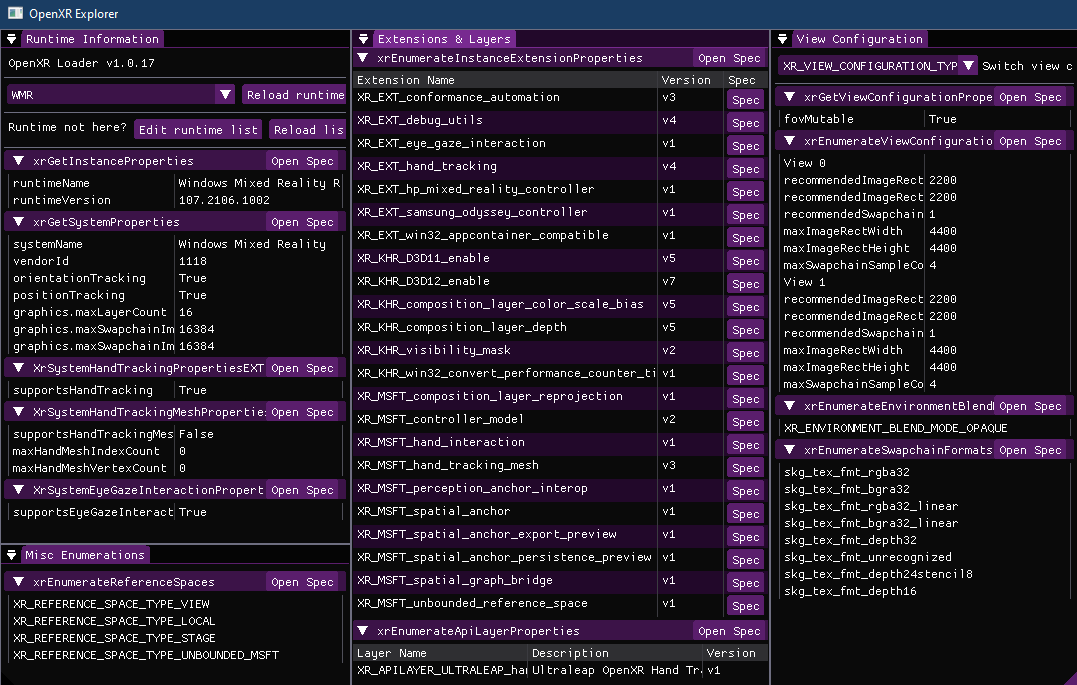
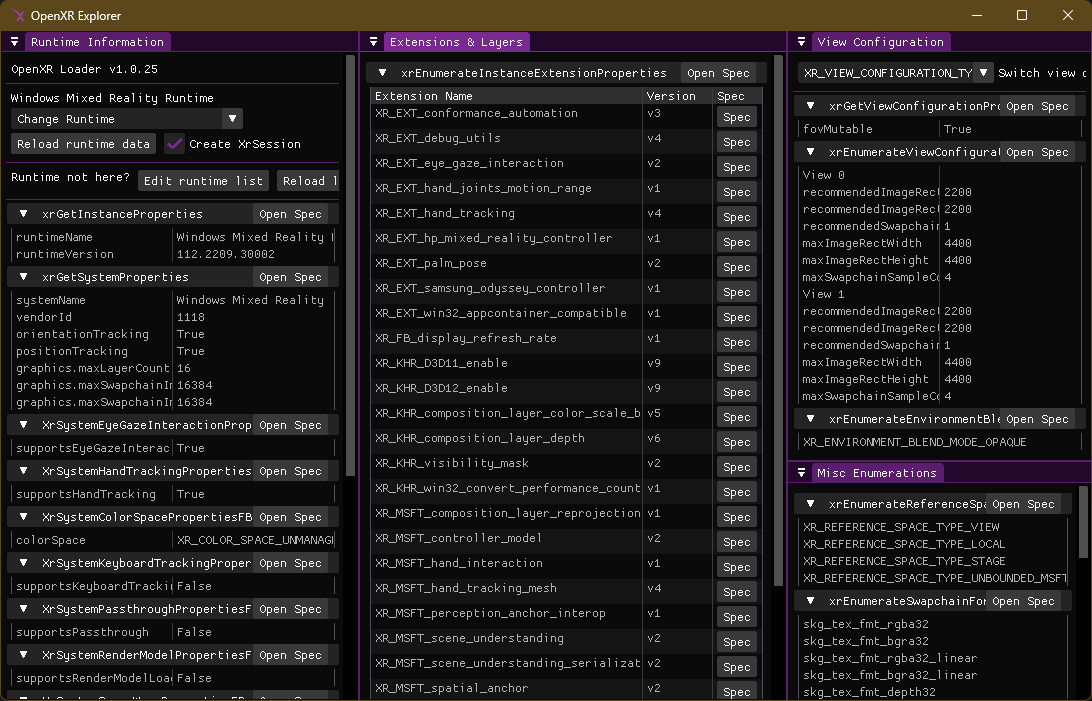
Feature/improvements (#14)
* Style revamp, error guards for enums, allow for info without session

* Different text colors for properties

* Update screenshot with new theme

diff --git a/src/openxrexplorer/openxr_info.cpp b/src/openxrexplorer/openxr_info.cpp
@@ -35,6 +35,8 @@ const char *xr_session_err  = nullptr;
 XrSystemId  xr_system_id    = {};
 const char *xr_system_err   = nullptr;
 
+const char* xr_runtime_name = "No runtime set";
+
 #define XR_NEXT_INSERT(obj, obj_next) obj_next.next = obj.next; obj.next = &obj_next;
 
 /*** Signatures **************************/
@@ -85,6 +87,7 @@ void openxr_info_release() {
 	xr_extensions.extensions.free();
 	xr_extensions.layers    .free();
 	xr_extensions = {};
+	xr_runtime_name = "No runtime set";
 
 	xr_table_strings.each(free);
 	xr_table_strings.free();
@@ -182,6 +185,8 @@ void openxr_init_instance(array_t<XrExtensionProperties> extensions) {
 	XrResult result = xrCreateInstance(&create_info, &xr_instance);
 	if (XR_FAILED(result)) {
 		xr_instance_err = openxr_result_string(result);
+		xr_system_err   = "No XrInstance available";
+		xr_session_err  = "No XrInstance available";
 	}
 }
 
@@ -189,7 +194,8 @@ void openxr_init_instance(array_t<XrExtensionProperties> extensions) {
 
 void openxr_init_system(XrFormFactor form) {
 	if (xr_instance_err != nullptr) {
-		xr_system_err = "XrInstance not available!";
+		xr_system_err  = "No XrInstance available";
+		xr_session_err = "No XrInstance available";
 		return;
 	}
 	if (xr_system_id != XR_NULL_SYSTEM_ID || xr_system_err != nullptr) 
@@ -200,6 +206,7 @@ void openxr_init_system(XrFormFactor form) {
 	XrResult result = xrGetSystem(xr_instance, &system_info, &xr_system_id);
 	if (XR_FAILED(result)) {
 		xr_system_err = openxr_result_string(result);
+		xr_session_err = "No XrSystemId available";
 	}
 }
 
@@ -207,11 +214,11 @@ void openxr_init_system(XrFormFactor form) {
 
 void openxr_init_session() {
 	if (xr_instance_err != nullptr) {
-		xr_session_err = "XrInstance not available!";
+		xr_session_err = "No XrInstance available";
 		return;
 	}
 	if (xr_system_err != nullptr) {
-		xr_session_err = "XrSystemId not available!";
+		xr_session_err = "No XrSystemId available";
 		return;
 	}
 	if (xr_session != XR_NULL_HANDLE || xr_session_err != nullptr)
@@ -348,6 +355,7 @@ xr_properties_t openxr_load_properties() {
 		if (XR_FAILED(error)) {
 			table.error = openxr_result_string(error);
 		} else {
+			xr_runtime_name = new_string("%s", result.instance.runtimeName);
 			table.cols[0].add({ "runtimeName"    }); table.cols[1].add({ new_string("%s", result.instance.runtimeName) });
 			table.cols[0].add({ "runtimeVersion" }); table.cols[1].add({ new_string("%d.%d.%d",
 				(int32_t)XR_VERSION_MAJOR(result.instance.runtimeVersion),
@@ -646,29 +654,49 @@ xr_view_info_t openxr_load_view(XrViewConfigurationType view_config) {
 ///////////////////////////////////////////
 
 void openxr_load_enums(xr_settings_t settings) {
+	// Check if any of the enums need a session
+	if (!xr_session_err && settings.allow_session) {
+		bool requires_session = false;
+		for (size_t i = 0; i < xr_misc_enums.count; i++) {
+			requires_session = requires_session || xr_misc_enums[i].requires_session;
+		}
+		if (requires_session) {
+			openxr_init_session();
+		}
+	} else if (!xr_session_err) {
+		xr_session_err = "Reload with Session enabled";
+	}
+
 	for (size_t i = 0; i < xr_misc_enums.count; i++) {
 		xr_misc_enums[i].items.clear();
-		if (!xr_misc_enums[i].requires_session || settings.allow_session) {
-			if (xr_misc_enums[i].requires_session) 
-				openxr_init_session();
+
+		display_table_t table = {};
+		table.name_func = xr_misc_enums[i].source_fn_name;
+		table.name_type = xr_misc_enums[i].source_type_name;
+		table.spec      = xr_misc_enums[i].spec_link;
+		table.tag       = xr_misc_enums[i].tag;
+		table.column_count = 1;
+
+		if ((!xr_misc_enums[i].requires_session  || !xr_session_err ) &&
+			(!xr_misc_enums[i].requires_instance || !xr_instance_err) &&
+			(!xr_misc_enums[i].requires_system   || !xr_system_err  )) {
+
 			XrResult error = xr_misc_enums[i].load_info(&xr_misc_enums[i], settings);
 
-			display_table_t table = {};
-			table.name_func = xr_misc_enums[i].source_fn_name;
-			table.name_type = xr_misc_enums[i].source_type_name;
-			table.spec      = xr_misc_enums[i].spec_link;
-			table.tag       = xr_misc_enums[i].tag;
-			table.column_count = 1;
 			for (size_t e = 0; e < xr_misc_enums[i].items.count; e++) {
 				table.cols[0].add({ xr_misc_enums[i].items[e] });
 			}
 			if (XR_FAILED(error)) {
 				table.error = openxr_result_string(error);
 			}
-			xr_tables.add(table);
 		} else {
-			xr_misc_enums[i].items.add("XrSession unavailable!");
+
+			if      (xr_misc_enums[i].requires_instance && xr_instance_err) table.error = "No XrInstance available";
+			else if (xr_misc_enums[i].requires_system   && xr_system_err  ) table.error = "No XrSystemId available";
+			else if (xr_misc_enums[i].requires_session  && xr_session_err ) table.error = "No XrSession available";
 		}
+
+		xr_tables.add(table);
 	}
 }
 
@@ -703,7 +731,8 @@ void openxr_register_enums() {
 	info = { "xrEnumerateEnvironmentBlendModes" };
 	info.source_type_name = "XrEnvironmentBlendMode";
 	info.spec_link        = "XrEnvironmentBlendMode";
-	info.requires_session = false;
+	info.requires_instance= true;
+	info.requires_system  = true;
 	info.tag              = display_tag_view;
 	info.load_info        = [](xr_enum_info_t *ref_info, xr_settings_t settings) {
 		if (settings.view_config == 0) {
@@ -771,6 +800,7 @@ void openxr_register_enums() {
 	info.source_type_name = "XrColorSpaceFB";
 	info.spec_link        = "XrColorSpaceFB";
 	info.requires_session = true;
+	info.requires_instance= true;
 	info.tag              = display_tag_misc;
 	info.load_info        = [](xr_enum_info_t *ref_info, xr_settings_t settings) {
 		PFN_xrEnumerateColorSpacesFB xrEnumerateColorSpacesFB;
@@ -798,6 +828,7 @@ void openxr_register_enums() {
 	info.source_type_name = "float";
 	info.spec_link        = "xrEnumerateDisplayRefreshRatesFB";
 	info.requires_session = true;
+	info.requires_instance= true;
 	info.tag              = display_tag_misc;
 	info.load_info        = [](xr_enum_info_t *ref_info, xr_settings_t settings) {
 		PFN_xrEnumerateDisplayRefreshRatesFB xrEnumerateDisplayRefreshRatesFB;
@@ -821,6 +852,7 @@ void openxr_register_enums() {
 	info.source_type_name = "XrRenderModelPathInfoFB";
 	info.spec_link        = "XrRenderModelPathInfoFB";
 	info.requires_session = true;
+	info.requires_instance= true;
 	info.tag              = display_tag_misc;
 	info.load_info        = [](xr_enum_info_t *ref_info, xr_settings_t settings) {
 		PFN_xrEnumerateRenderModelPathsFB xrEnumerateRenderModelPathsFB;
@@ -843,7 +875,7 @@ void openxr_register_enums() {
 	info = { "xrEnumerateViveTrackerPathsHTCX" };
 	info.source_type_name = "XrViveTrackerPathsHTCX";
 	info.spec_link        = "XrViveTrackerPathsHTCX";
-	info.requires_session = false;
+	info.requires_instance= true;
 	info.tag              = display_tag_misc;
 	info.load_info        = [](xr_enum_info_t *ref_info, xr_settings_t settings) {
 		PFN_xrEnumerateViveTrackerPathsHTCX xrEnumerateViveTrackerPathsHTCX;
@@ -869,7 +901,7 @@ void openxr_register_enums() {
 	info = { "xrEnumeratePerformanceMetricsCounterPathsMETA" };
 	info.source_type_name = "XrPath";
 	info.spec_link        = "xrEnumeratePerformanceMetricsCounterPathsMETA";
-	info.requires_session = false;
+	info.requires_instance= true;
 	info.tag              = display_tag_misc;
 	info.load_info        = [](xr_enum_info_t *ref_info, xr_settings_t settings) {
 		PFN_xrEnumeratePerformanceMetricsCounterPathsMETA xrEnumeratePerformanceMetricsCounterPathsMETA;
@@ -892,7 +924,8 @@ void openxr_register_enums() {
 	info = { "xrEnumerateReprojectionModesMSFT" };
 	info.source_type_name = "XrReprojectionModeMSFT";
 	info.spec_link        = "XrReprojectionModeMSFT";
-	info.requires_session = false;
+	info.requires_system  = true;
+	info.requires_instance= true;
 	info.tag              = display_tag_misc;
 	info.load_info        = [](xr_enum_info_t *ref_info, xr_settings_t settings) {
 		PFN_xrEnumerateReprojectionModesMSFT xrEnumerateReprojectionModesMSFT;
@@ -919,7 +952,8 @@ void openxr_register_enums() {
 	info = { "xrEnumerateSceneComputeFeaturesMSFT" };
 	info.source_type_name = "XrSceneComputeFeatureMSFT";
 	info.spec_link        = "XrSceneComputeFeatureMSFT";
-	info.requires_session = false;
+	info.requires_system  = true;
+	info.requires_instance= true;
 	info.tag              = display_tag_misc;
 	info.load_info        = [](xr_enum_info_t *ref_info, xr_settings_t settings) {
 		PFN_xrEnumerateSceneComputeFeaturesMSFT xrEnumerateSceneComputeFeaturesMSFT;

diff --git a/src/openxrexplorer/main.cpp b/src/openxrexplorer/main.cpp
@@ -44,25 +44,38 @@ bool app_args(int32_t arg_count, const char **args) {
 bool app_init() {
 	ImGuiStyle* style = &ImGui::GetStyle();
 	ImVec4* colors = style->Colors;
-	style->FrameRounding = 1;
+	style->FrameRounding = 2;
+	style->FramePadding  = ImVec2{ 6, 4 };
+	style->WindowPadding = ImVec2{ 10, 10 };
+	style->ScrollbarRounding = 1;
+	style->AntiAliasedFill        = false;
+	style->AntiAliasedLines       = false;
+	style->AntiAliasedLinesUseTex = false;
+
 
 	ImVec4 major    = ImVec4(0.471f, 0.169f, 0.565f, 1.00f);
-	ImVec4 mid      = ImVec4(major.x*0.75f, major.y*0.75f, major.z*0.75f, 1);
-	ImVec4 minor    = ImVec4(major.x*0.5f, major.y*0.5f, major.z*0.5f, 1);
-	ImVec4 barely   = ImVec4(major.x*0.3f, major.y*0.3f, major.z*0.3f, 1);
+	ImVec4 desat    = ImVec4(0.3f, 0.3f, 0.3f, 1.00f);
+
+	ImVec4 midsat   = ImVec4(major.x * 0.75f, major.y * 0.75f, major.z * 0.75f, 1);
+	ImVec4 mid      = ImVec4(desat.x*0.75f, desat.y*0.75f, desat.z*0.75f, 1);
+	ImVec4 minor    = ImVec4(desat.x*0.5f,  desat.y*0.5f,  desat.z*0.5f,  1);
+	ImVec4 barely   = ImVec4(desat.x*0.3f,  desat.y*0.3f,  desat.z*0.3f,  1);
+	ImVec4 barelysat= ImVec4(major.x*0.3f,  major.y*0.3f,  major.z*0.3f,  1);
 	ImVec4 hover    = ImVec4(major.x*0.85f, major.y*0.85f, major.z*0.85f, 1);
 	ImVec4 action   = major;
 
 	colors[ImGuiCol_DockingPreview] = major;
-	colors[ImGuiCol_Header] = colors[ImGuiCol_FrameBg] = colors[ImGuiCol_TabUnfocused] = minor;
-	colors[ImGuiCol_Button]        = colors[ImGuiCol_ResizeGrip]        = colors[ImGuiCol_TabUnfocusedActive] = colors[ImGuiCol_Tab] = mid;
-	colors[ImGuiCol_ButtonActive ] = colors[ImGuiCol_ResizeGripActive]  = colors[ImGuiCol_HeaderActive]       = colors[ImGuiCol_TabActive]  = colors[ImGuiCol_FrameBgActive]  = action;
-	colors[ImGuiCol_ButtonHovered] = colors[ImGuiCol_ResizeGripHovered] = colors[ImGuiCol_HeaderHovered]      = colors[ImGuiCol_TabHovered] = colors[ImGuiCol_FrameBgHovered] = hover;
-	colors[ImGuiCol_TableRowBgAlt] = colors[ImGuiCol_TitleBgActive] = barely;
+	colors[ImGuiCol_Header]        = colors[ImGuiCol_FrameBg] = colors[ImGuiCol_TabUnfocused] = minor;
+	colors[ImGuiCol_Button]        = colors[ImGuiCol_ResizeGrip]        = colors[ImGuiCol_Tab] = mid;
+	colors[ImGuiCol_ButtonActive ] = colors[ImGuiCol_ResizeGripActive]  = colors[ImGuiCol_HeaderActive]  = colors[ImGuiCol_TabActive]  = colors[ImGuiCol_FrameBgActive]  = colors[ImGuiCol_CheckMark] = action;
+	colors[ImGuiCol_ButtonHovered] = colors[ImGuiCol_ResizeGripHovered] = colors[ImGuiCol_HeaderHovered] = colors[ImGuiCol_TabHovered] = colors[ImGuiCol_FrameBgHovered] = hover;
+	colors[ImGuiCol_TitleBg]       = colors[ImGuiCol_TitleBgActive]     = barelysat;
+	colors[ImGuiCol_TableRowBgAlt] = barely;
+	colors[ImGuiCol_TabUnfocusedActive] = colors[ImGuiCol_Separator] = midsat;
  
 	load_runtimes(runtime_config_path(), &runtimes, &runtime_count);
 
-	app_xr_settings.allow_session = true;
+	app_xr_settings.allow_session = false;
 	app_xr_settings.form          = XR_FORM_FACTOR_HEAD_MOUNTED_DISPLAY;
 	openxr_info_reload(app_xr_settings);
 	
@@ -126,6 +139,8 @@ void app_window_runtime() {
 	ImGui::Separator();
 	ImGui::Spacing();
 
+	ImGui::Text(xr_runtime_name);
+
 	// Runtime picker
 	if (ImGui::BeginCombo("##Change Runtime", current_runtime == -1 ? "Change Runtime" : runtimes[current_runtime].name)) {
 		for (int n = 0; n < runtime_count; n++) {
@@ -141,10 +156,12 @@ void app_window_runtime() {
 		}
 		ImGui::EndCombo();
 	}
-	ImGui::SameLine();
+	
 	if (ImGui::Button("Reload runtime data")) {
 		openxr_info_reload(app_xr_settings);
 	}
+	ImGui::SameLine();
+	ImGui::Checkbox("Create XrSession", &app_xr_settings.allow_session);
 
 	ImGui::Spacing();
 	ImGui::Separator();
@@ -187,7 +204,6 @@ void app_window_runtime() {
 ///////////////////////////////////////////
 
 void app_window_openxr_functionality() {
-	ImGui::PushStyleVar(ImGuiStyleVar_WindowPadding, ImVec2(0.0f, 0.0f));
 	ImGui::Begin("Extensions & Layers");
 
 	for (size_t i = 0; i < xr_tables.count; i++) {
@@ -196,7 +212,6 @@ void app_window_openxr_functionality() {
 	}
 
 	ImGui::End();
-	ImGui::PopStyleVar();
 }
 
 ///////////////////////////////////////////
@@ -240,6 +255,9 @@ void app_window_view() {
 ///////////////////////////////////////////
 
 void app_element_table(const display_table_t *table) {
+	const float  text_col = 0.7f;
+	const ImVec4 text_vec = ImVec4{ text_col,text_col,text_col,1 };
+
 	if (ImGui::TreeNodeEx(table->show_type ? table->name_type : table->name_func, ImGuiTreeNodeFlags_DefaultOpen | ImGuiTreeNodeFlags_Framed | ImGuiTreeNodeFlags_AllowItemOverlap)) {
 		if (table->spec) {
 			ImGui::SameLine(ImGui::GetContentRegionMax().x - (ImGui::CalcTextSize("Open Spec").x + GImGui->Style.FramePadding.x * 3));
@@ -256,7 +274,10 @@ void app_element_table(const display_table_t *table) {
 			if (ImGui::BeginTable(table->name_type, 1, flags)) {
 				ImGui::TableNextRow();
 				ImGui::TableNextColumn();
+
+				ImGui::PushStyleColor(ImGuiCol_Text, text_vec);
 				ImGui::Text("%s", table->error);
+				ImGui::PopStyleColor();
 
 				ImGui::EndTable();
 			}
@@ -267,20 +288,26 @@ void app_element_table(const display_table_t *table) {
 				ImGui::TableHeadersRow();
 			}
 
+			ImGui::PushStyleColor(ImGuiCol_Text, text_vec);
+
 			for (size_t i = table->header_row?1:0; i < table->cols[0].count; i++) {
 				ImGui::TableNextRow();
 				for (size_t c = 0; c < table->column_count; c++) {
 					ImGui::TableNextColumn(); 
 					if (table->cols[c][i].spec) {
 						ImGui::PushID(i);
+						ImGui::PopStyleColor();
 						if (ImGui::Button("Spec"))
 							app_open_spec(table->cols[c][i].spec);
+						ImGui::PushStyleColor(ImGuiCol_Text, text_vec);
 						ImGui::PopID();
 					} else {
 						ImGui::Text("%s", table->cols[c][i].text);
 					}
 				}
 			}
+
+			ImGui::PopStyleColor();
 			ImGui::EndTable();
 		}
 

diff --git a/src/openxrexplorer/openxr_info.h b/src/openxrexplorer/openxr_info.h
@@ -54,6 +54,8 @@ struct xr_enum_info_t {
 	const char           *source_type_name;
 	const char           *spec_link;
 	const char           *error;
+	bool                  requires_instance;
+	bool                  requires_system;
 	bool                  requires_session;
 	display_tag_          tag;
 	array_t<const char *> items;
@@ -96,6 +98,8 @@ extern xr_view_info_t          xr_view;
 extern const char *xr_instance_err;
 extern const char *xr_session_err;
 extern const char *xr_system_err;
+
+extern const char* xr_runtime_name;
 
 /*** Signatures **************************/
 
